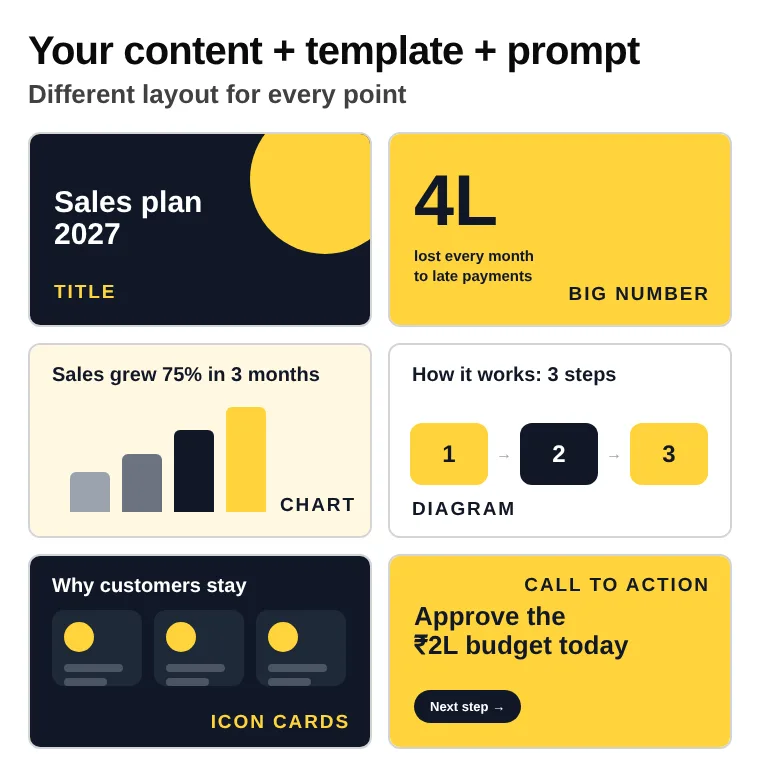
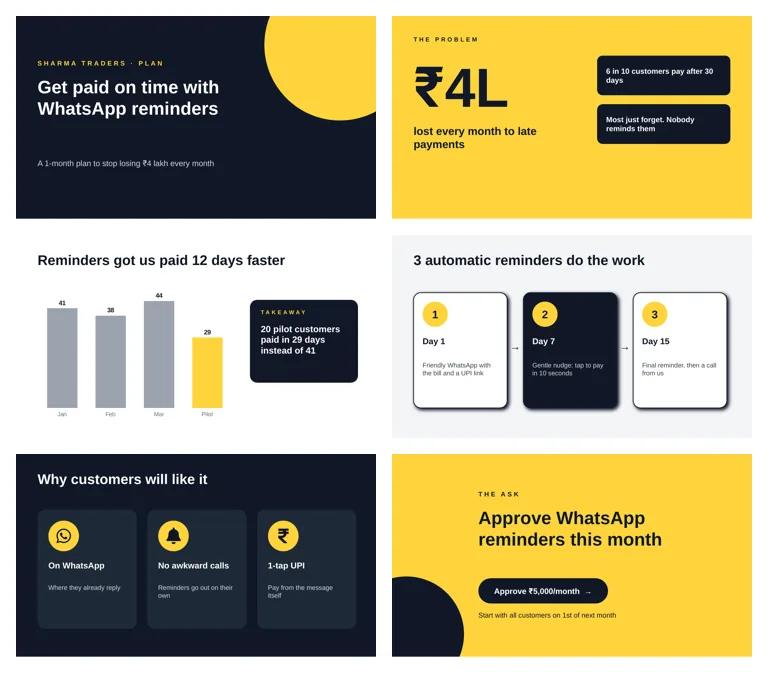
PPT guide: content.md (fewer tokens), real before/after decks made with the guide
Claude-Session: https://claude.ai/code/session_01HyCHRAr637xtfJkxxCRcsu

diff --git a/g/ppt/index.html b/g/ppt/index.html
@@ -41,7 +41,7 @@
       <span class="label keyword">PPT</span>
       <h1 class="guide-title">AI slides that don't <span class="underline">all look the same.</span></h1>
       <ol class="quick-steps">
-        <li><div>Save your content in a file<span>Copy the content file below and fill it in</span></div></li>
+        <li><div>Save your content as content.md<span>Copy the content file below, fill it in, save it as a .md file</span></div></li>
         <li><div>Download a free design<span>Pick any template from the sites below (.pptx)</span></div></li>
         <li><div>Upload both to Claude + paste my prompt<span>Claude asks you questions, shows 1 sample slide, then builds the full deck</span></div></li>
       </ol>
@@ -57,18 +57,18 @@
     <section class="card example" aria-labelledby="example-label">
       <h2 class="label" id="example-label">Example · same topic, new look</h2>
       <figure class="shot">
-        <img src="../../assets/img/guides/ppt/before.webp?v=1" width="760" height="777" loading="lazy" decoding="async" alt="Before: six slides that all look the same, a grey title bar and four bullet lines each.">
-        <figcaption>Before: a normal AI deck. Every slide is a title and bullets.</figcaption>
+        <img src="../../assets/img/guides/ppt/before.webp?v=2" width="768" height="454" loading="lazy" decoding="async" alt="Before: four slides that all look the same, a dark title bar and bullet points each.">
+        <figcaption>Before: same content as a normal AI deck. Every slide is a title and bullets.</figcaption>
       </figure>
       <figure class="shot">
-        <img src="../../assets/img/guides/ppt/after.webp?v=1" width="760" height="777" loading="lazy" decoding="async" alt="After: six different slides in one design: a title slide, a big number, a bar chart, a 3-step diagram, icon cards and a call to action.">
-        <figcaption>After: one design, a different layout for every point: big number, chart, diagram, icon cards.</figcaption>
+        <img src="../../assets/img/guides/ppt/after.webp?v=2" width="768" height="673" loading="lazy" decoding="async" alt="After: six slides made with this guide in one template: a title slide, a big number, a bar chart, a 3-step diagram, icon cards and a call to action.">
+        <figcaption>After: made with this guide. One template, a different layout for every point, plus animations.</figcaption>
       </figure>
     </section>
 
     <section class="prompt on-ink" aria-labelledby="content-file-label">
       <div class="prompt-head">
-        <h2 class="label" id="content-file-label">Step 1 · Your content file</h2>
+        <h2 class="label" id="content-file-label">Step 1 · Your content.md file</h2>
         <button class="copy-btn" type="button" data-copy-target="content-file"><svg class="icon" width="16" height="16" viewBox="0 0 24 24" fill="none" stroke="currentColor" stroke-width="2" stroke-linecap="round" stroke-linejoin="round" aria-hidden="true"><rect x="9" y="9" width="12" height="12" rx="2"/><path d="M5 15V5a2 2 0 0 1 2-2h10"/></svg><span class="copy-label" aria-live="polite">Copy</span></button>
       </div>
       <p class="prompt-text prompt-text--paras" id="content-file">MY CONTENT: [Title of the presentation]
@@ -153,6 +153,7 @@ At the end, list anything you assumed or couldn&#x27;t do.</p>
         <li><strong>Animations</strong> don't always get added inside the file. Then Claude gives you an animation table. Adding them in PowerPoint takes about a minute.</li>
         <li><strong>Photos:</strong> Claude can't add photos from the internet. It uses the template's images and icons, and marks where your own photo should go.</li>
         <li><strong>Figma templates</strong> sometimes export as flat pictures that Claude can't restyle. Slidesgo and Microsoft templates are safer.</li>
+        <li><strong>Use .md, not Word or PDF,</strong> for your content. Plain text uses fewer tokens, so more of your limit goes into the slides.</li>
         <li><strong>Always check numbers.</strong> The prompt tells Claude not to invent data, but read every chart once before you present.</li>
         <li>Slidesgo's free templates ask you to credit them: keep their credit slide.</li>
         <li>Don't upload confidential company data you aren't allowed to share.</li>
@@ -163,8 +164,8 @@ At the end, list anything you assumed or couldn&#x27;t do.</p>
     <p class="section-break label">Need help? Full steps</p>
     <section class="card step">
       <span class="step-num" aria-hidden="true">01</span>
-      <h2 class="step-title"><span class="visually-hidden">Step 1: </span>Fill in the content file</h2>
-      <p class="card-text">Copy the content file above into Notes, Word or Google Docs. Replace everything in [brackets] with your own words and real numbers, then save it as a .txt, .docx or PDF. Real numbers become real charts.</p>
+      <h2 class="step-title"><span class="visually-hidden">Step 1: </span>Save your content as a .md file</h2>
+      <p class="card-text">Copy the content file above into any notes or text app. Replace everything in [brackets] with your own words and real numbers. Save it as <strong>content.md</strong> (a .txt file works too). A .md file is plain text, so Claude reads it with far fewer tokens than a Word file or PDF, and saves your free limit for building the slides. Real numbers become real charts.</p>
     </section>
 
     <section class="card step">
@@ -176,7 +177,7 @@ At the end, list anything you assumed or couldn&#x27;t do.</p>
     <section class="card step">
       <span class="step-num" aria-hidden="true">03</span>
       <h2 class="step-title"><span class="visually-hidden">Step 3: </span>Upload both files + paste the prompt</h2>
-      <p class="card-text">Go to <strong>claude.ai</strong> or the Claude app, start a new chat, tap <strong>+</strong> and add both files: the template .pptx and your content file. Then paste <strong>The prompt</strong>. Creating files works on the free plan too.</p>
+      <p class="card-text">Go to <strong>claude.ai</strong> or the Claude app, start a new chat, tap <strong>+</strong> and add both files: the template .pptx and your content.md. Then paste <strong>The prompt</strong>. Creating files works on the free plan too.</p>
     </section>
 
     <section class="card step">
